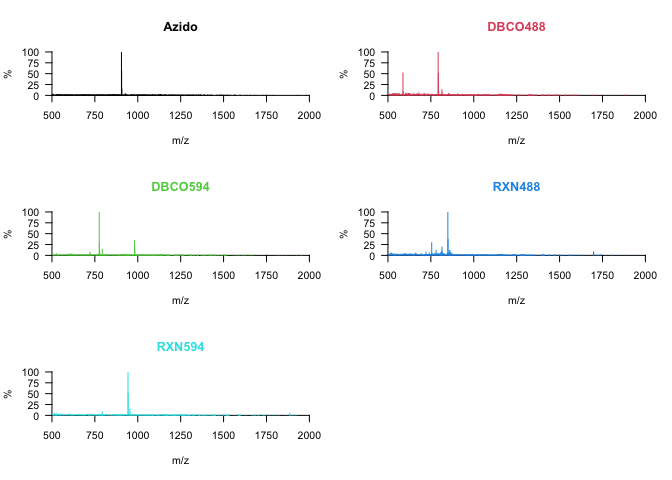
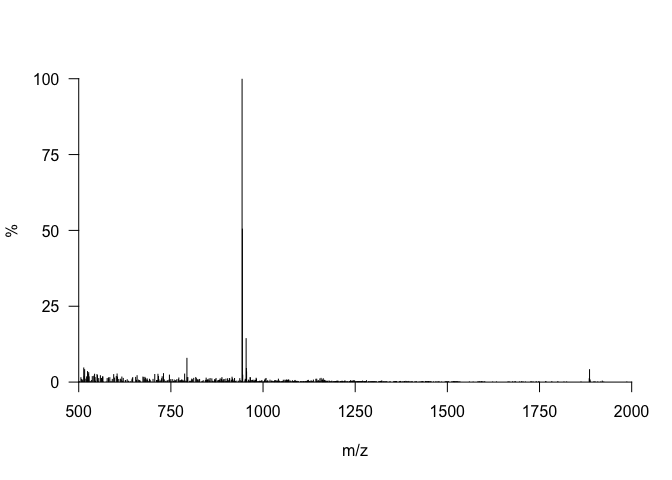
Updated Supp02 doc

diff --git a/supplementary_fig02.md b/supplementary_fig02.md
@@ -496,6 +496,14 @@ ms.plot <- function(x, xlim=c(500, 2000), main = '', col='black'){
 }
 ```
 
+Lets try it:
+
+``` r
+ms.plot(msdata[msdata$sample=='RXN594',])
+```
+
+![](supplementary_fig02_files/figure-commonmark/unnamed-chunk-21-1.png)
+
 Then lets plot all the samples on one row each:
 
 ``` r
@@ -506,4 +514,4 @@ for(i in seq_along(msSamples) ){
 }
 ```
 
-![](supplementary_fig02_files/figure-commonmark/unnamed-chunk-21-1.png)
+![](supplementary_fig02_files/figure-commonmark/unnamed-chunk-22-1.png)
